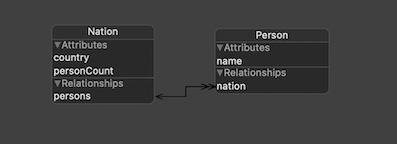
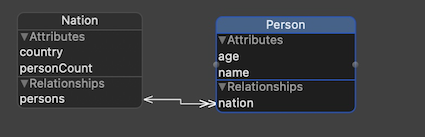
add operations and modify

Changed region(s): [[0.0302, 0.0876, 0.8463, 0.8467]]

diff --git a/PracticeCoreData/ViewController.swift b/PracticeCoreData/ViewController.swift
@@ -59,6 +59,7 @@ class ViewController: UIViewController {
         let request = NSFetchRequest<Person>(entityName: "Person")
         viewContext.perform { [self] in
             person = try! request.execute().first
+            
             self.cancellable = person?.publisher(for: \.name)
                 .assign(to: \.text, on: self.lastLabel)
         }
@@ -66,14 +67,14 @@ class ViewController: UIViewController {
 
     //MARK: - Fetch
     @IBAction func fetchAllPerson(_ sender: Any) {
-        let request = NSFetchRequest<Person>(entityName: "Person")
-        var str = ""
+        let request: NSFetchRequest<NSFetchRequestResult> = Person.fetchRequest()
+        request.resultType = .countResultType
         viewContext.perform { [self] in
-            let list = try! request.execute()
-            str = "People: \(list.count)"
-            lastLabel.text = str
+            let count = try? viewContext.fetch(request).last
+            lastLabel.text = "People: \(count!)"
         }
     }
+
     @IBAction func fetchNation(_ sender: Any ) {
         let request = NSFetchRequest<Nation>(entityName: "Nation")
         var str = ""
@@ -83,35 +84,64 @@ class ViewController: UIViewController {
                 str += "\($0.country!): \($0.personCount) | \($0.persons!.count)\n"
             }
             lastLabel.text = str
+            print("completed")
         }
-        
+        print("hello")
+    }
+    
+    @IBAction func fetchPersonCountGroupedByAge() {
+        viewContext.perform { [self] in
+            let request = NSFetchRequest<NSFetchRequestResult>(entityName: "Person")
+            request.propertiesToGroupBy = ["age"]
+            request.resultType = .dictionaryResultType
+            
+            let description = NSExpressionDescription()
+            description.expression = NSExpression(forFunction: "count:", arguments: [NSExpression(forKeyPath: "age")])
+            description.name = "count"
+            description.expressionResultType = .integer16AttributeType
+            
+            request.propertiesToFetch = ["age", description]
+            
+            let result = try? viewContext.fetch(request) as? [[String: Int]]
+            var str = ""
+            result!.forEach {
+                str += "age: \($0["age"]!), count: \($0["count"]!)\n"
+            }
+            lastLabel.text = str
+        }
     }
 
     //MARK: - add
     @IBAction func addWithKorean(_ sender: Any) {
-        addPerson(country: "korea", context: viewContext)
+        addPerson(country: "korea", by: viewContext)
     }
 
     @IBAction func addWithAmerican(_ sender: Any) {
-        addPerson(country: "america", context: viewContext)
+        addPerson(country: "america", by: viewContext)
     }
 
     @IBAction func addWithChinese(_ sender: Any) {
-        addPerson(country: "china", context: viewContext)
+        addPerson(country: "china", by: viewContext)
     }
     
-    func addPerson( country: String, context: NSManagedObjectContext) {
-        context.perform  { [self ] in
+    /// Create person who has random age and random name
+    func addPerson( country: String, by context: NSManagedObjectContext) {
+        context.perform  { 
+            let randomList = "abcdefghijklmn".map{String($0)}
+            var randomName = ""
+            for _ in 0..<10 {
+                randomName += randomList.randomElement()!
+            }
             let person = Person(context: context)
-            let request = NSFetchRequest<Nation>(entityName: "Nation")
+            person.age = (20...25).randomElement()!
             
+            let request = NSFetchRequest<Nation>(entityName: "Nation")
             let list = try? context.fetch(request)
             list?.forEach{
                 if $0.country == country {
                     person.nation = $0
                 } else { return }
             }
-            person.name = "vapor"
             try? context.save()
         }
     }
@@ -128,10 +158,16 @@ class ViewController: UIViewController {
             
         }
     }
+    @IBAction func setPersonRandomTo1000(_ sender: Any) {
+        for _ in 0..<1000 {
+            let country = ["korea","america","china"].randomElement()!
+            addPerson(country: country, by: backgroundContext)
+        }
+    }
     
     @IBAction func addKoreanUsingBackgroundContext(_ sender: Any) {
         backgroundContext.perform { [self] in
-            addPerson(country: "korea", context: backgroundContext)
+            addPerson(country: "korea", by: backgroundContext)
         }
     }
     
@@ -149,7 +185,6 @@ class ViewController: UIViewController {
                 viewContext.delete($0)
             }
             list?.removeAll()
-            
             try? viewContext.save()
         }
     }

diff --git a/PracticeCoreData/Person+Extension.swift b/PracticeCoreData/Person+Extension.swift
@@ -1,0 +1,12 @@
+//
+//  Person+Extension.swift
+//  PracticeCoreData
+//
+//  Created by hyunsu on 2021/07/05.
+//
+
+import Foundation
+import CoreData
+extension Person {
+    
+}

diff --git a/README.md b/README.md
@@ -1,13 +1,17 @@
-# Purpose
+## Purpose
 This is very simple practice for Core Data. 
 
 ![capture](capture/view.png)
 ![model](capture/model.png)
 
+## how to set up data  
+* first, click **1.setNations**
+* second, click **2.add~~**
 
-# Using 
+## Using 
 * relationship
 * delete, add model  
 * combine & UILabel 
 * check notification
 * denormalization with Drived Attribute
+* groupBy, count 
